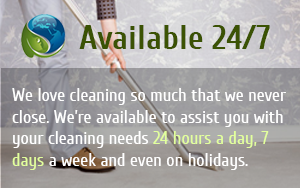
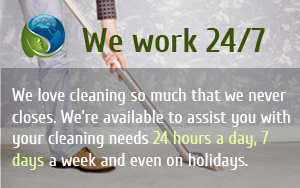
247 image we work 247 and code at top of the page

Changed region(s): [[0.24, 0.133, 0.9, 0.2926], [0.15, 0.5851, 0.99, 0.6915]]

diff --git a/wp-content/themes/enzymatic/style.css b/wp-content/themes/enzymatic/style.css
@@ -65,7 +65,31 @@ hr{
 	float: right;
 	font-size: 30px;
 	font-weight: bold;
-	margin-top:130px;
+	position:absolute;
+	bottom:20px;
+	right:0px;
+}
+#header #header_code{
+	position:relative;
+	width:326px;
+	float:right;
+	padding:0px;
+	margin:0px;
+	height:92px;
+	margin-top:10px;
+}
+#header #header_code_content{
+	position:absolute;
+	font-size:13px;
+	font-family:'Cuprum';
+	bottom:2px;
+	left:5px;
+	color:white;
+	text-shadow:1px 1px #999999;
+	-webkit-text-shadow: 1px 1px #999999;
+	-khtml-text-shadow: 1px 1px #999999;
+	-moz-text-shadow: 1px 1px #999999;
+	font-weight:normal;
 }
 #navigation ul{
 	padding: 0px;
@@ -556,6 +580,11 @@ hr{
 		float:none;
 		margin-top:20px;
 		text-align:center;
+		position:inherit;
+	}
+	#header #header_code{
+		float:none;
+		margin:0 auto;
 	}
 	.bannertext{
 		font-size:18px;
@@ -604,5 +633,12 @@ hr{
 	#twentyfourseven{
 		width:90%;
 		margin:0 auto;
+	}
+	#header_code{
+		width:90% !important;
+	}
+	#header_code img{
+		width:100% !important;
+		height:auto !important;
 	}
 }

diff --git a/wp-content/themes/enzymatic/header.php b/wp-content/themes/enzymatic/header.php
@@ -27,14 +27,14 @@
 			<div id="contact">
 				CALL US
 				<span class="blue"><?php echo enzymatic_setting("enzymatic_contact_setting","contactnumber"); ?></span>
-				<!--
-				<br/>
-				<div id="code">
-					<?php //get_image("entercode.png","code"); ?>
-					<div id="codecontent">sample code goes here.</div>
-				</div>
-				<div class="clear"></div>
-				!-->
+				<?php $parents = get_post_ancestors( get_the_ID() ); ?>
+				<?php if($parents[0] == 148): ?>
+					<br/>
+					<div id="header_code">
+						<?php get_image("code.jpg","code"); ?>
+					</div>
+					<div class="clear"></div>
+				<?php endif; ?>
 			</div>
 			<div class="clear"></div>
 		</div>

diff --git a/wp-content/themes/enzymatic/functions.php b/wp-content/themes/enzymatic/functions.php
@@ -15,10 +15,9 @@
 
 	function enzymatic_widgets(){
 		require( get_template_directory() . '/includes/widgets/imagelink/index.php' );
-		require( get_template_directory() . '/includes/widgets/code/index.php' );
+		//require( get_template_directory() . '/includes/widgets/code/index.php' );
 
 		register_widget( 'ImageLinks' );
-		register_widget( 'Code' );
 		register_sidebar( array(
 			'name' => __('Sidebar'),
 			'id' => 'sidebar',
